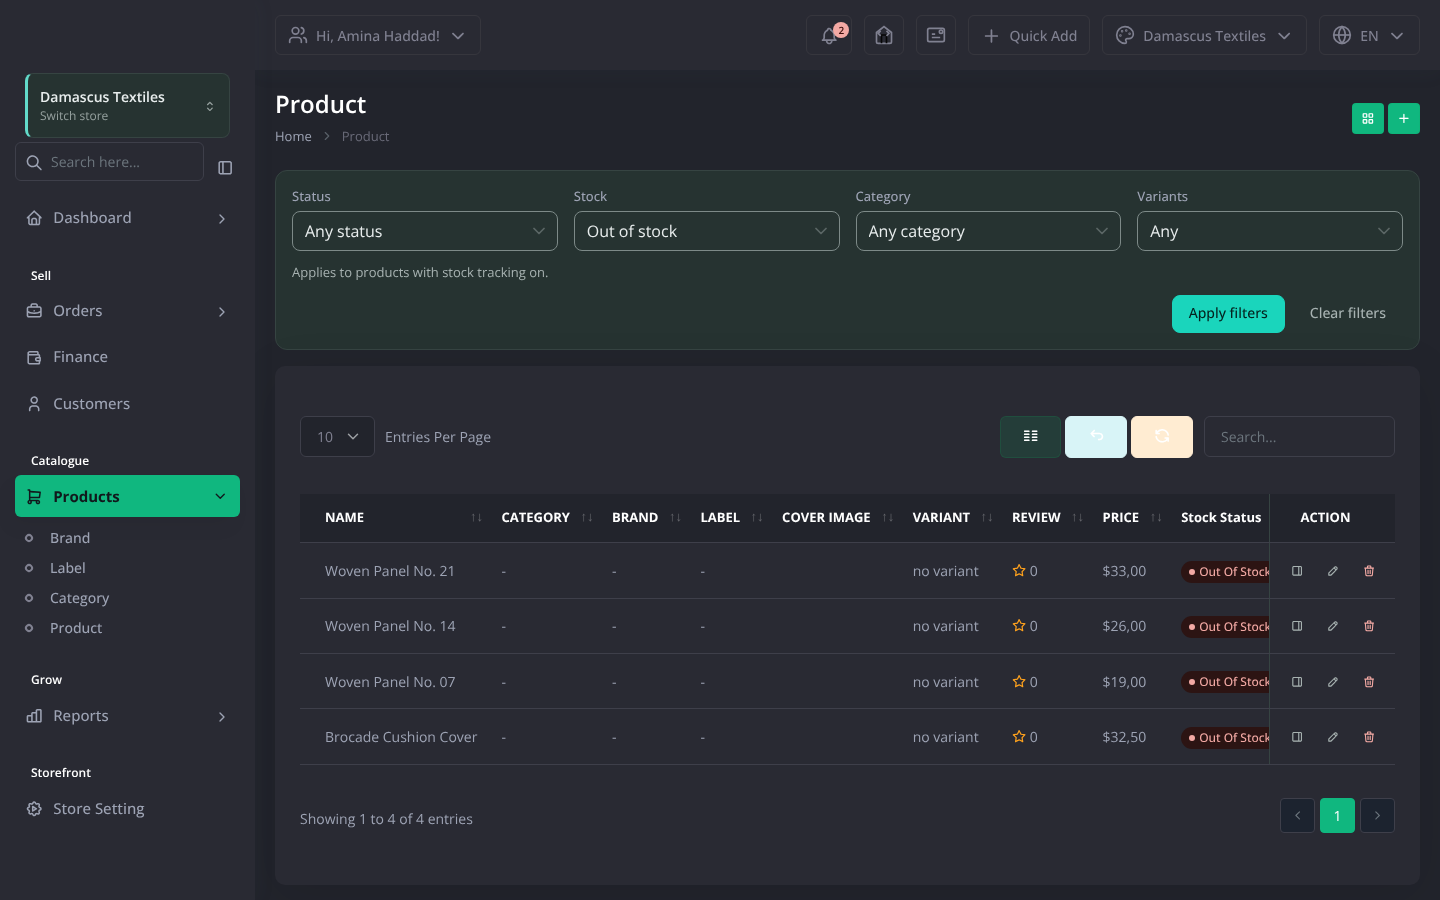
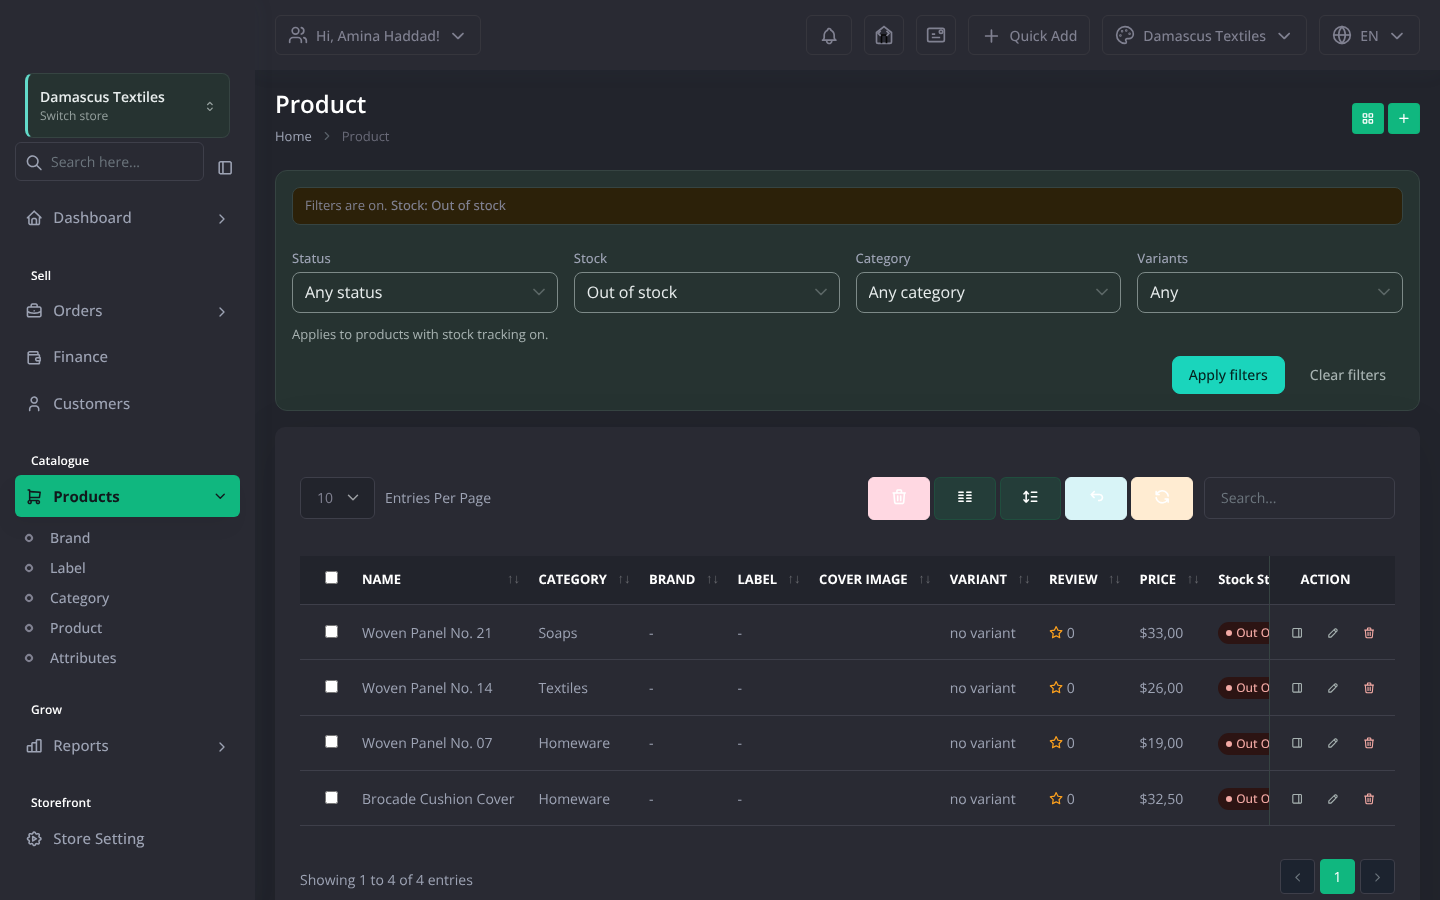
P2-06-5 verified in a real browser; P2-06-6 measured and escalated
240 live cases — both lists, Arabic and English, light and dark — and the new
restore journey is BITE-TESTED: disabling the restore fails 32 of them. That
journey exists because the feature suite structurally cannot see the thing most
likely to be wrong. The table's `ajax.url` is `url()->full()` evaluated when the
page renders, so a restore that only filled the controls would leave the second
leg fetching the unfiltered url — the bar would look filtered and the rows would
not be. A feature test never runs the DataTable. Here the request is watched.

DRIVING THE REAL PAGE FOUND SOMETHING NO TEST DID: the receipt and the filter
bar each rendered a link to the same url, about 100px apart, with different
labels — "Show all products" and "Clear filters". Two links to one action read
as two actions. Playwright's strict mode is what reported it, by refusing an
ambiguous selector. The receipt now STATES and the bar ACTS; the component keeps
`clearUrl` as a prop for a surface with no clear control of its own, and the two
bars do not pass it. The two now-dead locale keys are removed.

P2-06-6 IS CLOSED ON ITS OWN QUALIFIER, by measurement rather than by deferral:
`public/vendor/datatables/` holds ten files and ColReorder is not among them, so
no table in this application supports column reordering and "where the table
supports it" is satisfied truthfully. Saying "done" without the measurement
would have been the dishonest version of the same answer.
[…]

diff --git a/resources/views/components/ss/filter-summary.blade.php b/resources/views/components/ss/filter-summary.blade.php
@@ -15,6 +15,13 @@
     exists to prevent. Rendering on the typed case too also closes the same hole for a url that
     arrived from a bookmark or a colleague, which has been open since the filter bars shipped.
 
+    IT STATES; IT DOES NOT ACT. An earlier version carried its own "Show all products" link, and
+    driving the real page is what showed why that was wrong: the bar already has a "Clear
+    filters" control a few lines below, in the same form and visible without scrolling, so the
+    page offered TWO links to one url with two different labels about 100px apart. That reads as
+    two different actions. `clearUrl` is still a prop for a caller whose surface has no clear
+    control of its own; the two list bars do not pass it.
+
     IT NAMES THE FILTERS AND NEVER A ROW COUNT. The bar's own docblock already refuses a second
     count, because DataTables prints "Showing 1 to N of M" below the table and two numbers
     describing one fact is a thing to keep in agreement. What is NOT already on screen is which

diff --git a/resources/views/product/partials/filters.blade.php b/resources/views/product/partials/filters.blade.php
@@ -28,8 +28,6 @@
          otherwise be the silently-narrowed screen this exists to prevent. --}}
     <x-ss.filter-summary
         :filters="\App\Services\TableFilterMemory::describe(request(), 'product', collect($filterCategories ?? [])->toArray())"
-        :clear-url="route('product.index', ['ss_clear' => 1])"
-        :clear-label="__('Show all products')"
         :restored="(bool) session('ss_filters_restored')" />
 
 

diff --git a/resources/views/order/partials/filters.blade.php b/resources/views/order/partials/filters.blade.php
@@ -47,8 +47,6 @@
          otherwise be the silently-narrowed screen this exists to prevent. --}}
     <x-ss.filter-summary
         :filters="\App\Services\TableFilterMemory::describe(request(), 'order', [])"
-        :clear-url="route('order.index', ['ss_clear' => 1])"
-        :clear-label="__('Show all orders')"
         :restored="(bool) session('ss_filters_restored')" />
 
 

diff --git a/docs/development/phase-2/PHASE-02-TASK-LEDGER.md b/docs/development/phase-2/PHASE-02-TASK-LEDGER.md
@@ -383,8 +383,8 @@ instruction, 2026-10-25: *"Do not silently dismiss either finding."*
 | P2-06-2-OLD | (superseded row) | G | — | — | — | Server-side work: tenant isolation, permission and module-entitlement enforcement, none of which can be runtime-verified while Composer is blocked |
 | P2-06-3 | Unified notifications | H | **DONE** | `app/Http/Controllers/MerchantNotificationController.php`, `resources/views/notification/index.blade.php`, `resources/views/partision/header.blade.php` (the bell), `public/css/store-syria-ds.css`, `public/js/store-syria-ds.js` (`updateNotificationBadge`), `routes/web.php`, `resources/lang/{ar,en}.json`, `docs/development/phase-2/tools/shoot-notifications-live.cjs` | **THE ROWS ALREADY EXISTED AND THE WEB COULD NOT SEE THEM.** `store_notifications` is written by `StoreNotificationService` on every order created and paid, and the shipped Flutter app reads them through `GET api/admin/notification`. Nothing in the web admin read them at all — a merchant at a desk had no notifications and a merchant with the app had them. Closed against the SAME table, **no schema change, and the API untouched**. `MerchantNotificationAuthorizationTest` — **17 cases**: four handlers, two of which write; cross-tenant on all four; the route ACTIONS asserted (a module route file loads after `routes/web.php` and would win the slot silently); the marks refuse GET (405, having moved nothing); per-TYPE permission, because a notification is not a neutral envelope — `order_created`'s message names the order and its `data` carries `final_price`; the platform operator admitted while holding no Laratrust permission; an unregistered type refused even to a merchant holding everything; unresolved tenant; non-integer id; and the unread count. **Bite-tested, eight controls separately:** store predicate → 5 fail; `whereIn('type')` → 1; the scoped find in `markRead` → 1; the operator limb → 1; the type registry → 1; the mass-write store limb → 2; the bell's placement → 1; the `Show Order` button gate → 1. Three of those cases exist BECAUSE a bite round found nothing — no test drove an operator, the type filter was redundant with the empty-types short-circuit, and the unresolved-tenant case could not fail at all. **THE INDEPENDENT REVIEW FOUND TWO LIVE DEFECTS HERE AND FOUR WEAK TESTS; all six are fixed and every fix is bite-tested** — rows F23–F26 below. Driven in a real browser across 8 combinations, including that the unread marker MIRRORS (`border-inline-start`: left in LTR, right in RTL, read off the painted box). | — |
 | P2-06-4 | Persisted table preferences | I | **DONE** | `app/Helper/helper.php` (`buildDataTable`), `public/js/store-syria-ds.js` (`sanitizeTableState`), `docs/development/phase-2/tools/{check-table-state.cjs,check-table-prefs-live.cjs}`, `database/seed-p2dev.php` | **ONE CHANGE, 68 TABLES** — `buildDataTable()` builds every DataTable in the application (39 in `app/DataTables/`, 29 inside vendored modules), so the option goes there and **no `packages/workdo/` file is touched** to reach the vendored twenty-nine. `stateSave` with `stateDuration => 0` (localStorage, no expiry — the DataTables default of 7200 expires the choice after two hours and `-1` is sessionStorage; neither is a preference). **KEPT:** rows per page, sort, column visibility. **DROPPED, both on save and on load:** the search term and the page number — restoring a search is what turns this into a support ticket, and a state written by an earlier build is already in localStorage, which is why the load hook is not redundant. No schema change; what is stored is a row count, a sort direction and booleans, with no tenant or customer data. Evidence in three layers: `TablePreferencesTest` (8 cases — the wiring, that yajra emits the hooks as REAL JS and not quoted strings, the absent-script guard, and three real list screens still rendering); `check-table-state.cjs` (16 cases, the sanitiser EXECUTED in node against DataTables 1.10.20's own state shape); `check-table-prefs-live.cjs` (21 cases in a real browser). | — |
-| P2-06-5 | WS G1 — **Saved table filters** <br><br>**Acceptance:** a merchant's filter selection survives navigation and reload, per employee and per table | AUDIT-2026-10-25; P2-06-4 saves sort, page length and column visibility — **not filters**; distinct from P2-04-9 saved views | **TODO** | — | **REQUIRED:** a live check that sets filters, navigates away, returns, and finds them still applied | — |
-| P2-06-6 | WS G2 — **Column order** <br><br>**Acceptance:** column order is a saved preference where the table supports it | AUDIT-2026-10-25; P2-06-4 saves visibility only | **TODO** | — | **REQUIRED:** a live check that reorders, reloads, and asserts the order held | — |
+| P2-06-5 | WS G1 — **Saved table filters** <br><br>**Acceptance:** a merchant's filter selection survives navigation and reload, per employee and per table | AUDIT-2026-10-25; P2-06-4 saves sort, page length and column visibility — **not filters**; distinct from P2-04-9 saved views | **DONE [2026-10-27]** | `app/Services/TableFilterMemory.php` (new), `ProductController::index()`, `OrderController::index()`, both filter partials, `components/ss/filter-summary.blade.php` (new), `store-syria-ds.css`, `resources/lang/{ar,en}.json`, `tests/Feature/Merchant/TableFilterMemoryTest.php` (new, 28), `tools/check-list-filters-live.cjs` | **240 live cases**, both lists x LTR/RTL x light/dark, with the restore journey bite-tested: disabling it fails 32 of them. Feature gate 6212 testcases, 2 declared failures, 17 declared skips, 0 errors. | — **THE STORE IS THE LARAVEL SERVER SESSION, and every alternative was excluded by something measurable.** `settings` cannot be per-employee (`SettingOwnership` rewrites `created_by` to `creatorId()`, collapsing two employees onto one row); a COOKIE cannot (a cookie name is a browser-global slot, so the second employee at a shared terminal overwrites the first — that is the defect, not the feature); localStorage cannot without a user id in the DOM, and P2-06-4's disclosure note rests on the stored material carrying "no identifiers", so adding one means re-arguing it; a new column or table could and is a **persistent migration**, which CLAUDE.md reserves to the owner and the ledger already holds open for P2-04-9 and P2-06-7. **THE SESSION'S SHORT LIFE IS THE POINT.** P2-06-4 refused to restore a search term because "a merchant who searched 'refund' LAST THURSDAY comes back to four rows out of nine hundred and concludes their orders are gone". That defect is time-shaped, so the same two-hour expiry that disqualifies a session as a device preference qualifies it as a working context. Stated as such rather than dressed up as permanence. **THE RESTORE IS A 302**, because `ajax.url` is `url()->full()` evaluated at RENDER time: filling the controls client-side would leave the second leg fetching the unfiltered url, so the bar would look filtered and the rows would not be. The live journey watches that request, which is the thing the feature suite structurally cannot see. One blunt restore condition — the query string is completely empty — absorbs the AJAX leg (always carries `draw`), the post-create `?id=1`, apply-with-everything-on-Any, the clear signal, and every parameter added later. **THREE DEFECTS FOUND IN MY OWN WORK, two of them by independent review after I had already pushed.** (1) The ORDER receipt used the PRODUCT status map, so `?ss_status=1` announced DELIVERED orders as "Status: Active" — and for the other seven statuses the receipt AND the Clear button both vanished, because this slice had just tied Clear's visibility to the same predicate. A sticky filter with no on-screen trace and no way out: the exact screen the design exists to prevent, and a REGRESSION. It survived because **every one of my 14 tests drove `/product`**, and the service's only per-screen behaviour was the broken part. Nine statuses are now a data provider and all nine bite. (2) Inserting 25 lines into `OrderController::index()` moved nine rows of the observability inventory and failed its two-directional ratchet — the undeclared third failure in the Feature gate, named exactly by the gate. (3) Driving the real page showed the receipt and the bar each offering a link to the same url, 100px apart, with different labels; the receipt now states and the bar acts. **ONE PRE-EXISTING DEFECT FIXED:** "Clear filters" rendered whenever a parameter was PRESENT, and a GET form submits every control, so apply-with-all-Any produced `?ss_status=&…` where `''` is `!== null` — an unfiltered list offering to clear filters that were not on. **AND ONE PRE-EXISTING COVERAGE GAP:** `ArabicUiCoverageTest`'s globs never matched `*/partials/*`, so neither filter bar had been scanned for Arabic since it shipped. Widened; one untranslated string found and translated. **WHAT IS NOT CLAIMED:** the memory is per-employee and per-device-session, NOT cross-device or cross-day. If the owner reads "survives navigation and reload" as spanning days and devices, that needs a persistent store and is their decision. The bag rests in `sessions.payload` with `SESSION_ENCRYPT=false`, so the claim is "off the device", not "encrypted at rest"; and `same_site` is null, so a cross-site GET can write one filter into a merchant's own session with no token — visible, bounded, and recorded rather than treated as a hole. |
+| P2-06-6 | WS G2 — **Column order** <br><br>**Acceptance:** column order is a saved preference **where the table supports it** | AUDIT-2026-10-25; P2-06-4 saves visibility only | **MEASURED AND CLOSED ON ITS OWN QUALIFIER — the real feature is an owner decision** | — | Measurement: `public/vendor/datatables/` holds ten files and **ColReorder is not among them**; the only `colReorder` string in the shipped bundle is colVis's defensive `a.colReorder&&a.colReorder.transpose` guard. | — **NO TABLE IN THIS APPLICATION SUPPORTS COLUMN REORDERING**, so the acceptance's own qualifier is satisfied truthfully by measurement rather than by a deferral. Saying "done" without that measurement would have been the dishonest version of the same answer. **MAKING IT REAL STARTS WITH A LICENCE QUESTION THAT CANNOT BE SETTLED FROM THIS REPOSITORY.** DataTables' core declares MIT (`datatables.min.js:17`); the sibling Buttons bundle declares nothing, and ColReorder is a separate extension that is not present to read. Vendoring a new third-party asset is an owner decision under CLAUDE.md, and so is any CDN reference given the egress rules. **AND IT WOULD NOT BE SMALL.** Six tables build their own client-side DataTable and bypass `buildDataTable()` entirely, so they have no `stateSave` today and would each need bespoke work; the pinned trailing ACTION column from P2-03-1 is the obvious hazard, since reordering it away from the trailing edge breaks the one affordance that screen was built around; and the whole thing needs RTL, keyboard and dark-mode verification in four configurations. Whatever it stores should ride the existing DataTables state object so it inherits the `columns.length` discard guard. Escalated, not started. |
 | P2-06-7 | WS B8 / G4 — **Favourite pages and recent pages** <br><br>**Acceptance:** a merchant can mark pages as favourites and see recently visited ones; both permission-aware | AUDIT-2026-10-25; **needs a storage decision — escalate before building** | **TODO** | — | **REQUIRED:** authorization tests first (a favourite is per employee and cannot name a page they may not open) | — |
 | P2-06-8 | WS H5 — **Quick actions from search results** <br><br>**Acceptance:** a search result offers the actions the principal may actually perform on it | AUDIT-2026-10-25; depends on P2-06-2 and P2-01-18 | **TODO** | — | **REQUIRED:** a test that an ungated principal is offered none | — |
 | P2-06-9 | WS H6 — **Temporary action feedback** <br><br>**Acceptance:** a consistent transient feedback surface, distinct from the persistent notification inbox (P2-06-3), announced to assistive technology | AUDIT-2026-10-25; `show_toastr` exists and is the behaviour to preserve | **TODO** | — | **REQUIRED:** a browser check that the surface is an aria-live region and is not used for operational notifications | — |
